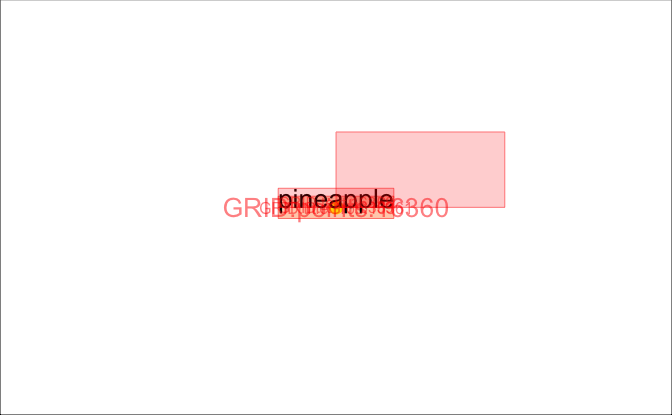
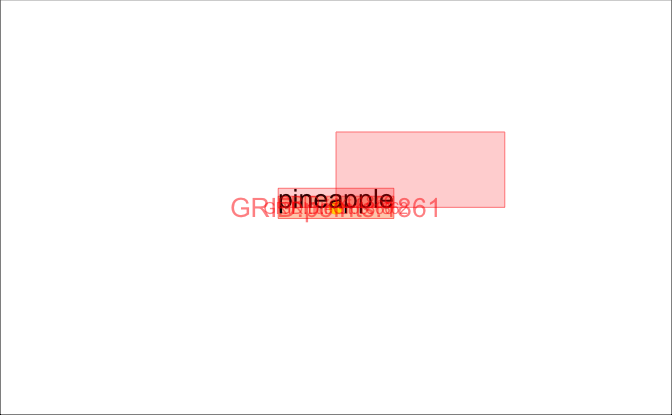
Add notes about stripGrob and its relationship to titleGrob

Changed region(s): [[0.3125, 0.4627, 0.6875, 0.5494]]

diff --git a/titlegrob.md b/titlegrob.md
@@ -1,7 +1,7 @@
 titleGrob()
 ================
 Kara Woo
-18 July, 2017
+24 July, 2017
 
 ``` r
 library("grid")
@@ -335,13 +335,13 @@ grid.ls(viewports = TRUE, fullnames = TRUE)
 ```
 
     ## ROOT
-    ##   GRID.rect.16256
-    ##   GRID.VP.2783
-    ##     GRID.VP.2784
-    ##       GRID.titleGrob.16255
-    ##         GRID.rect.16253
-    ##         GRID.points.16254
-    ##         GRID.text.16252
+    ##   GRID.rect.1757
+    ##   GRID.VP.346
+    ##     GRID.VP.347
+    ##       GRID.titleGrob.1756
+    ##         GRID.rect.1754
+    ##         GRID.points.1755
+    ##         GRID.text.1753
     ##       2
 
 The `grid.ls()` output shows that we beneath the root we have a `rect` and a viewport. Within the viewport is a child viewport as well as a `titleGrob` class object which has a text grob as a child.
@@ -362,7 +362,7 @@ childNames(
 )
 ```
 
-    ## [1] "GRID.text.16278"
+    ## [1] "GRID.text.1779"
 
 What happens if we expand the margins?
 
@@ -568,3 +568,14 @@ p + theme(axis.title = element_text(hjust = 1, debug = TRUE))
 ```
 
 <img src="figs/axis-title-hjust-2.png" width="80%" style="display: block; margin: auto;" />
+
+Why does stripGrob need its own function?
+-----------------------------------------
+
+`stripGrob()` is essentially a special case of `titleGrob()`; does it really need to be a separate function? All of the differences are fairly superficial:
+
+-   `stripGrob()` uses `hjust` and `vjust` to set both the x/y position and justification. This could be done by just passing `hjust` and `vjust` to the `x` and `y` arguments of `titleGrob()`
+-   `stripGrob()` always creates a viewport with a 3x3 layout, essentially the same behavior as `titleGrob()` with `expand_x` and `expand_y` set to `TRUE`
+-   I believe the only change that will have any visual ramifications is that `stripGrob()` does not include descenders in its calculations of text height and width. This seems like a bug to me; it seems better to be consistent about adding that extra padding.
+
+I think we could fairly easily replace `stripGrob()`, though doing so breaks the visual tests because the facet strips change size a little bit.
